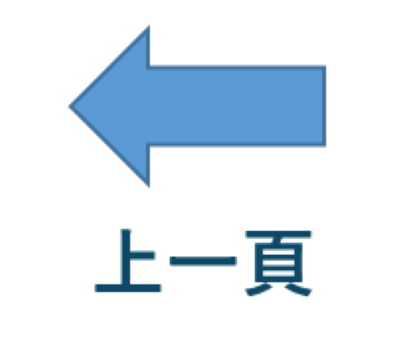
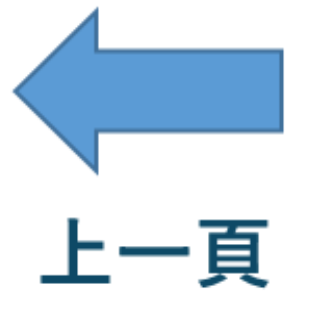
小螃蟹+手機版電腦版首頁導向

Changed region(s): [[0.0285, 0.0, 0.9114, 0.5607], [0.1139, 0.6231, 0.8544, 0.9034]]

diff --git a/public/documents/style.css b/public/documents/style.css
@@ -67,7 +67,7 @@ body {
   box-shadow:2px 2px 2px rgba(20%,20%,40%,0.3),4px 4px 6px rgba(20%,20%,40%,0.1),6px 6px 12px rgba(20%,20%,40%,0.1);
 }
 
-.return_space {
+/*.return_space {
   position: absolute;
   width: 14vw;
   height: 11vh;
@@ -75,19 +75,15 @@ body {
 }
 
 .return {
-  /*position: absolute;
-  margin: 10px 0vw 10px 3.5vw;
-  width: 5%;
-  height: 80px;*/
   width: auto;
   height: auto;
   max-width: 100%;
-  max-height: 110%;
+  max-height: 115%;
   top: 0;
   bottom: 0;
   left: 0;
   right: 0;
-}
+}*/
 
 
 .sign {
@@ -134,7 +130,7 @@ body {
   overflow-y: hidden;
   padding-top: 2vh;
   height: 79vh;
-  width: 15vw;
+  width: 17vw;
   position: absolute;
   left: 14vw;
   color: rgb(13, 73, 102);
@@ -152,12 +148,17 @@ body {
 
 .sidenav2 p:hover {
   background-color: rgb(251,217,185);
+  border-radius: 3px;
   cursor: pointer;
+  background-image:url("螃蟹.png");
+  background-position:center right;
+  background-size: 20% auto;
+  background-repeat: no-repeat;
 }
 
 .page_now {
+  border-radius: 3px;
   background-color: rgb(251,217,185);
-  /*color: #ffcc00 !important;*/
 }
 
 .icon {
@@ -172,15 +173,15 @@ body {
   margin: 15% 0;
 }
 
- 
+/*顯示資料的地方*/ 
 .box {
   overflow-x: hidden;
   background-color: #FFFDF1;
   position: absolute;
-  width: 70vw;
-  height: 74vh;
+  width: 67vw;
+  height: 77vh;
   right: 0vw;
-  top: 24vh;
+  margin-top:1vh;
   margin-left: 1vw;
   padding: 4vh 5vw;
 }
@@ -237,6 +238,25 @@ body {
     float: left;
   }
 
+  .return_space {
+    position: absolute;
+    width: 14vw;
+    height: 100%;
+    padding: 0.5vh 0 0.5vh 4.5vw;
+    margin: auto 0;
+  }
+
+  .return {
+    width: auto;
+    height: auto;
+    max-width: 100%;
+    max-height: 100%;
+    top: 0;
+    bottom: 0;
+    left: 0;
+    right: 0;
+  }
+
 }
 
 @media only screen and (min-width: 980px) and (max-width: 1400px)  {
@@ -257,6 +277,25 @@ body {
     margin: auto;
     position: absolute;
   }
+
+  .return_space {
+    position: absolute;
+    width: 14vw;
+    height:100%;
+    padding: 0.5vh 0 0.5vh 4.5vw;
+  }
+
+  .return {
+    width: auto;
+    height: auto;
+    max-width: 100%;
+    max-height: 100%;
+    top: 0;
+    bottom: 0;
+    left: 0;
+    right: 0;
+  }
+
 }
 
 @media only screen and (min-width: 768px) and (max-width: 980px)  {
@@ -277,6 +316,25 @@ body {
     margin: auto;
     position: absolute;
   }
+
+  .return_space {
+    position: absolute;
+    width: 14vw;
+    height: 100%;
+    padding: 0.5vh 0 0.5vh 3.5vw;
+  }
+
+  .return {
+    width: auto;
+    height: auto;
+    max-width: 90%;
+    max-height: 90%;
+    top: 0;
+    bottom: 0;
+    left: 0;
+    right: 0;
+  }
+
 }
 
 /*@media only screen and (min-width: 480px) and (max-width: 768px)  {
@@ -307,6 +365,25 @@ body {
     margin: auto;
     position: absolute;
   }
+
+  .return_space {
+    position: absolute;
+    width: 14vw;
+    height: 100%;
+    padding: 0.5vh 0 0.5vh 3vw;
+  }
+
+  .return {
+    width: auto;
+    height: auto;
+    max-width: 90%;
+    max-height: 90%;
+    top: 0;
+    bottom: 0;
+    left: 0;
+    right: 0;
+  }
+
 }
 
 /*other手機板*/

diff --git a/routes/documents.js b/routes/documents.js
@@ -10,15 +10,18 @@ router.get('/', function(req, res, next) {
   res.render('documents/index', { title: 'documents', user:req.user });
 });
 
-router.get('/documents', function(req, res, next) {
-  res.render('documents/index', { title: 'documents', user:req.user });
+router.get('/index_com', function(req, res, next) {
+  res.render('documents/index_com', { title: 'documents', user:req.user });
+});
+
+router.get('/index_phone', function(req, res, next) {
+  res.render('documents/index_phone', { title: 'documents', user:req.user });
 });
 
 //大學生
 router.get('/undergraduate_must', function(req, res, next) {
   Document.findOne({count: 1}).exec(function(err, data){
     if(err) return next(err);
-    console.log(data)
     res.render('documents/undergraduate_must',{ title: 'undergraduate',data: data, user:req.user });
   });
 });
